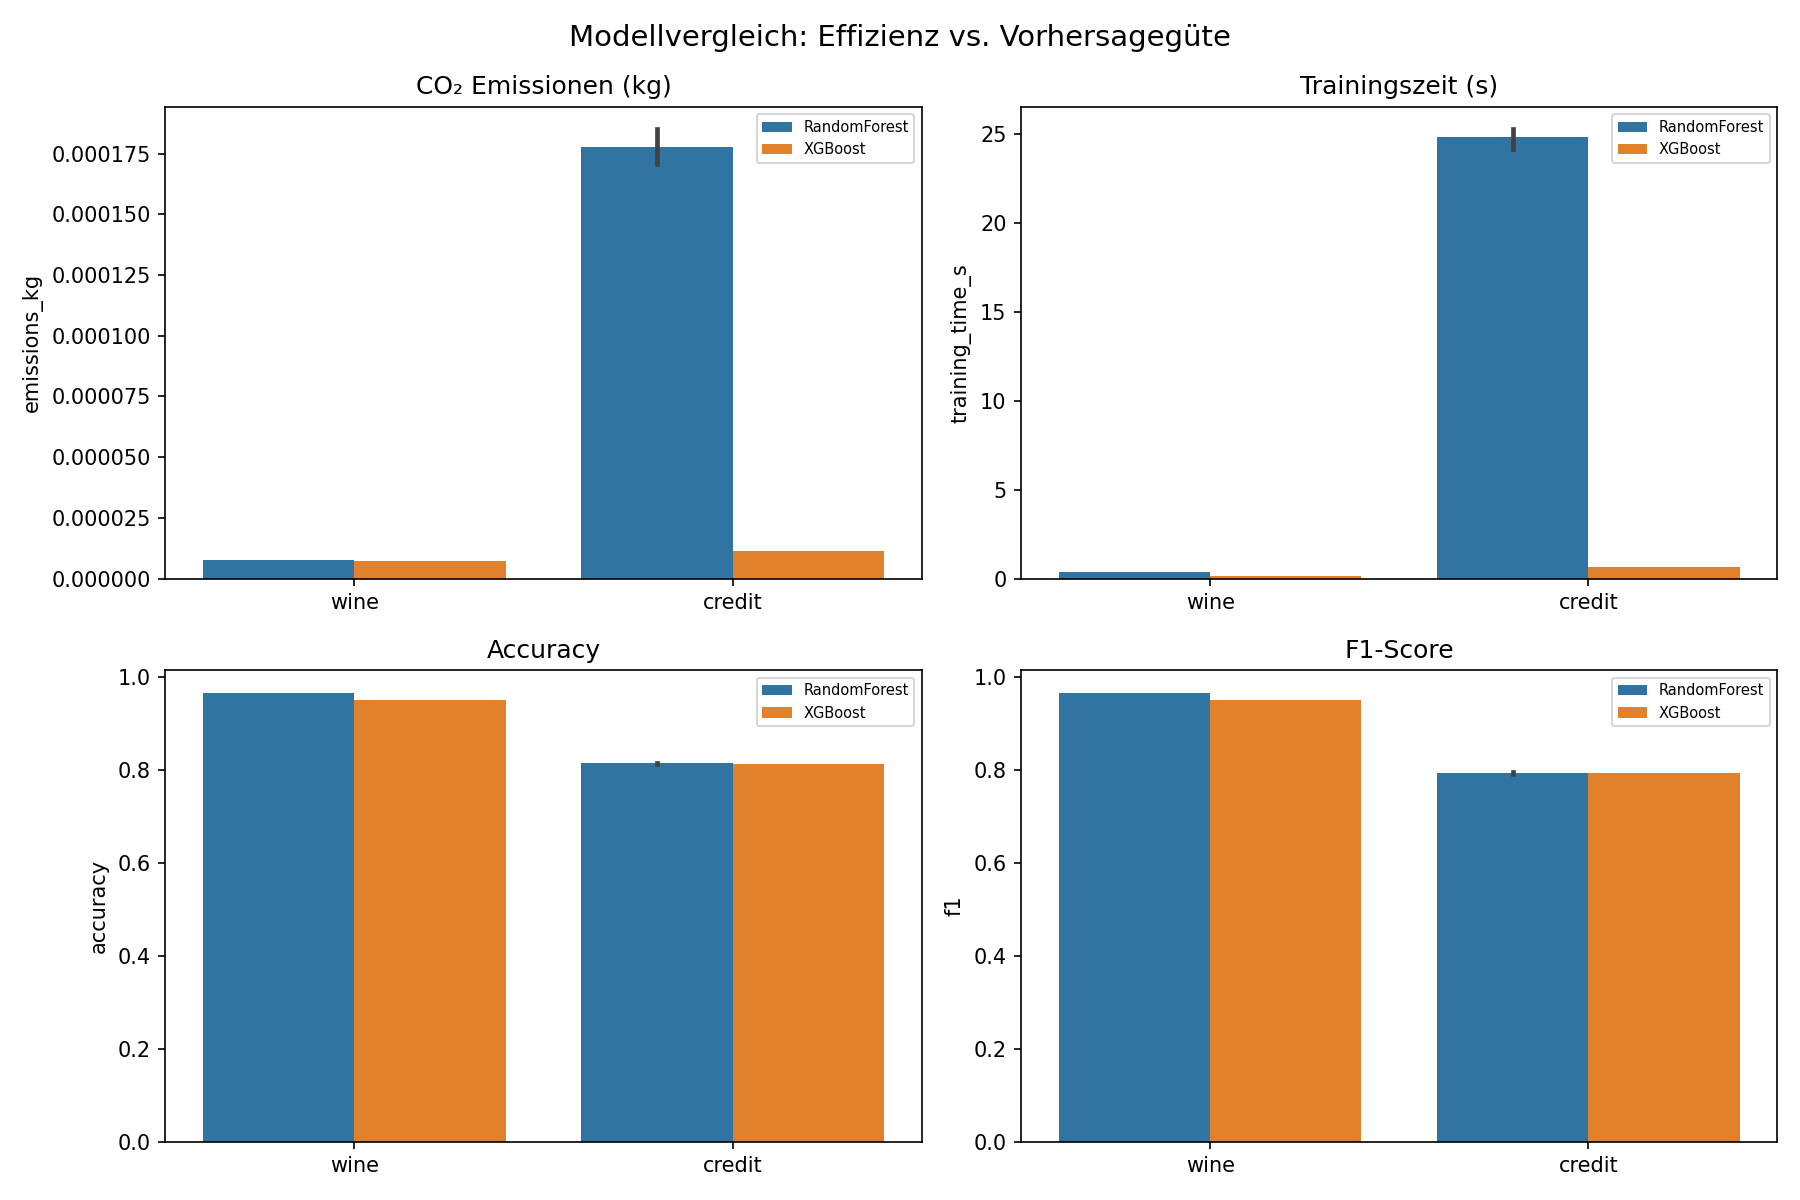
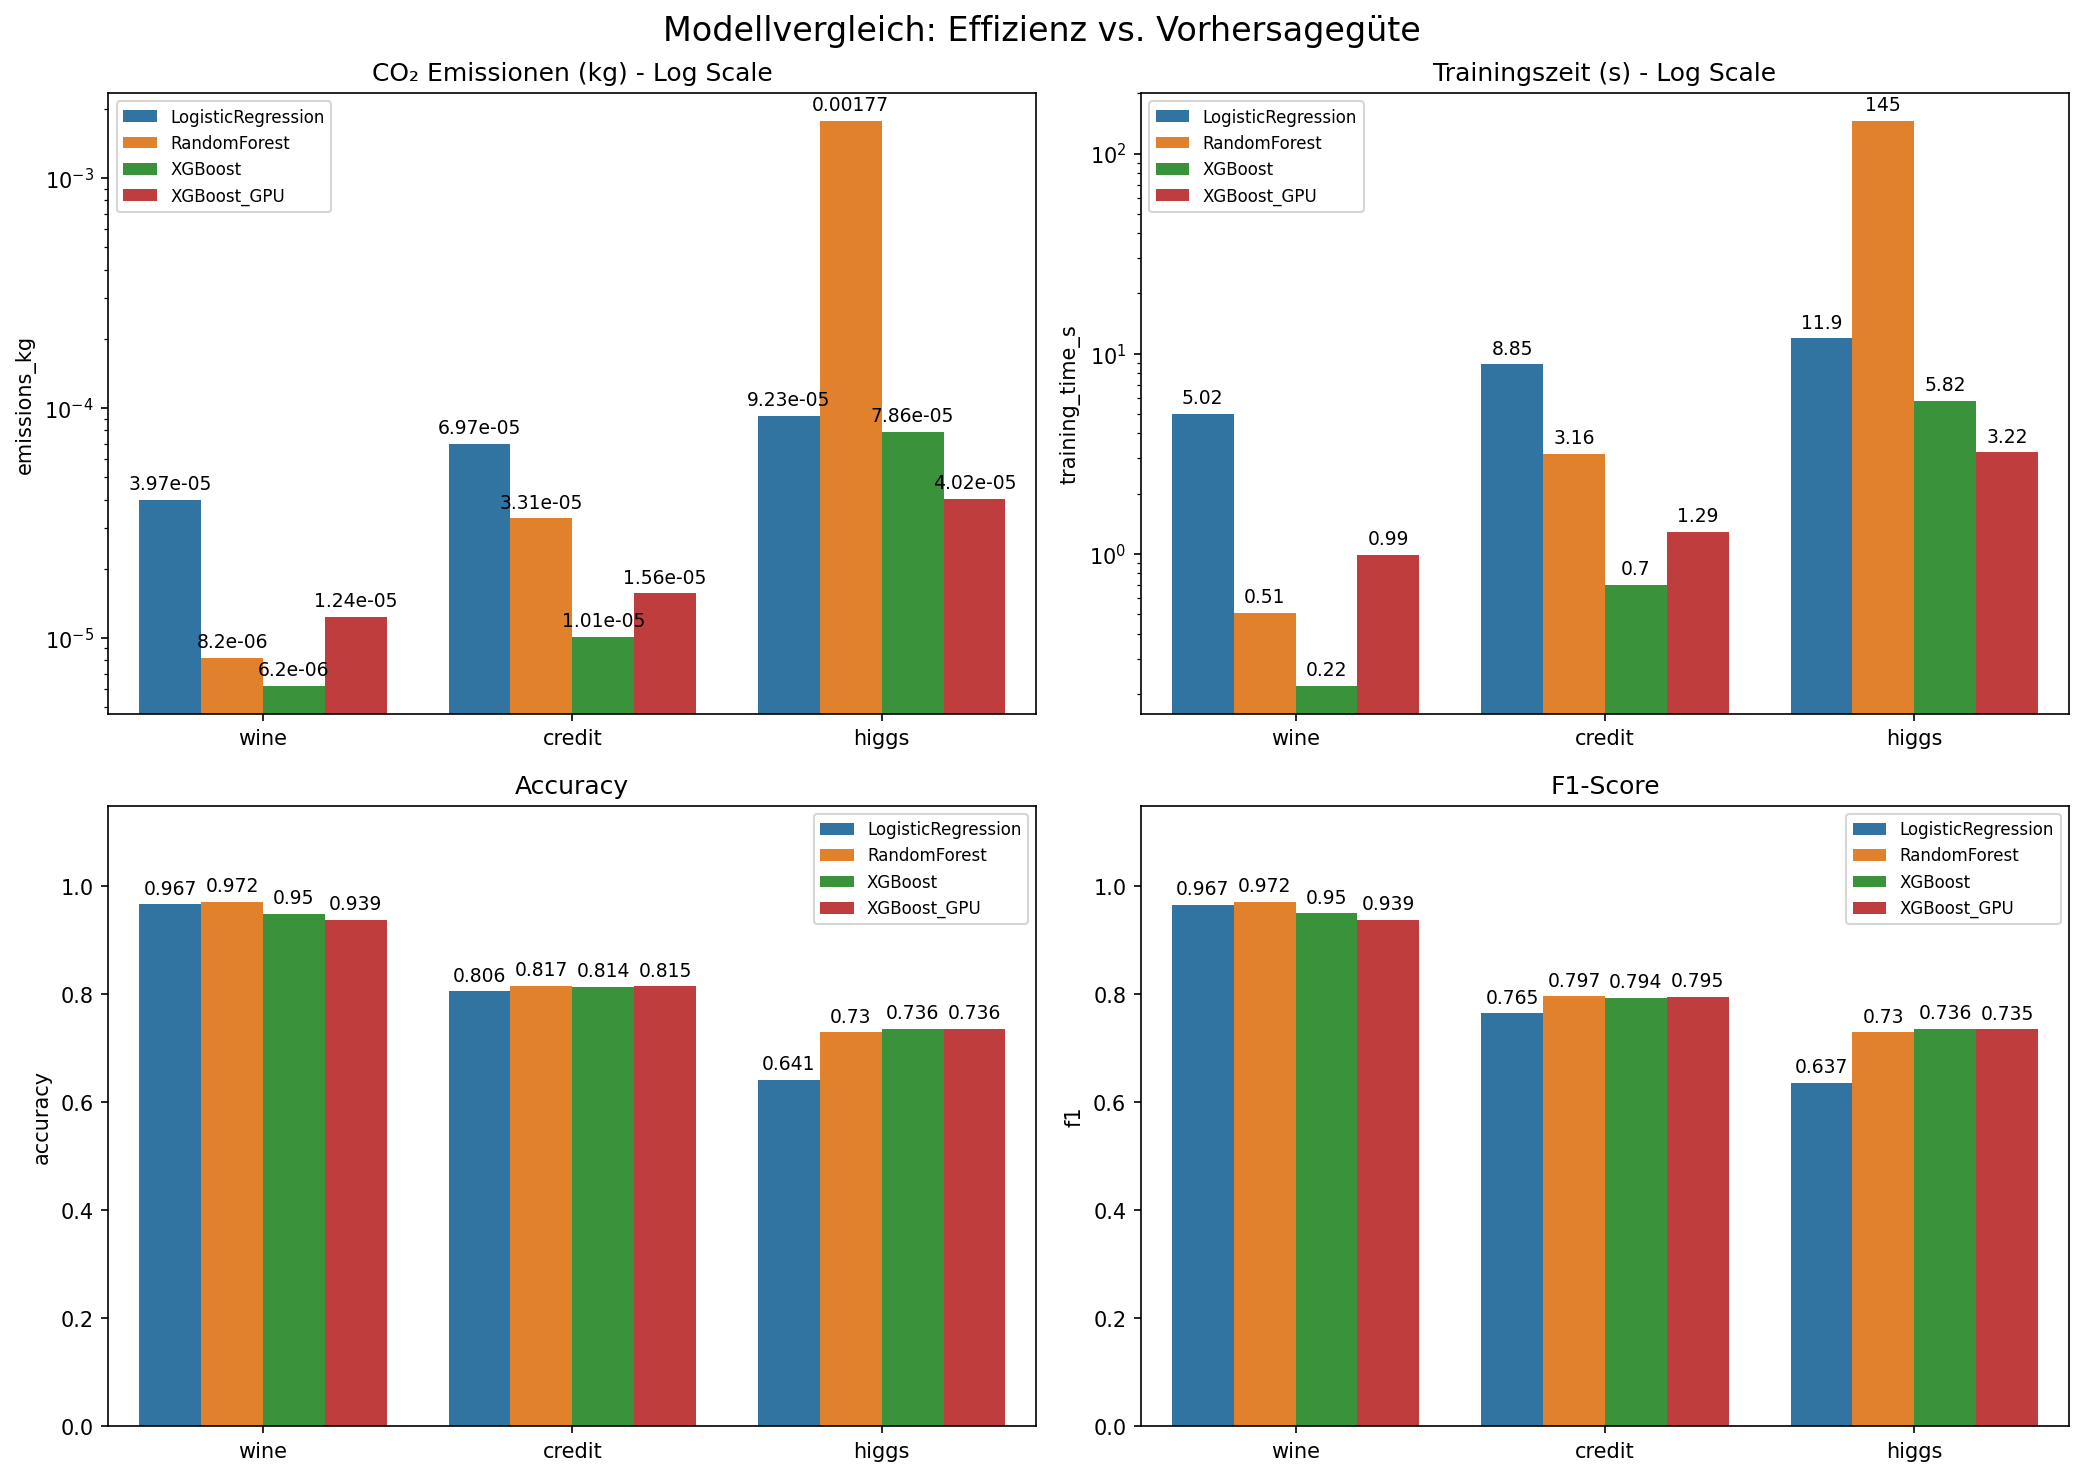
added higgs, added log_regression

diff --git a/models/run_models.py b/models/run_models.py
@@ -1,0 +1,44 @@
+import os
+import sys
+sys.path.append(os.path.dirname(os.path.abspath(__file__)))
+from utils import load_data, save_results, minimal_preprocess
+from sklearn.ensemble import RandomForestClassifier
+from xgboost import XGBClassifier
+from sklearn.model_selection import cross_validate
+from sklearn.metrics import f1_score, make_scorer
+from codecarbon import EmissionsTracker
+from config import config, RANDOM_STATE, CV_FOLDS
+import time
+
+DATASETS = ['wine', 'credit', 'higgs']
+
+xgb_config = {
+    "wine":   {"objective": "multi:softmax", "num_class": 3, "eval_metric": "mlogloss"},
+    "credit": {"objective": "binary:logistic", "eval_metric": "logloss"},
+    "higgs":  {"objective": "binary:logistic", "eval_metric": "logloss"},
+}
+
+scoring = {
+    'accuracy': 'accuracy',
+    'f1': make_scorer(f1_score, average='weighted')
+}
+
+for dataset in DATASETS:
+    X, y = load_data(dataset)
+    X, y = minimal_preprocess(X, y)
+    nrows = config[dataset].get("nrows")
+
+    for model_name, clf in [
+        ("RandomForest", RandomForestClassifier(random_state=RANDOM_STATE, n_jobs=-1)),
+        ("XGBoost",      XGBClassifier(**xgb_config[dataset], random_state=RANDOM_STATE)),
+        ("XGBoost_GPU",  XGBClassifier(**xgb_config[dataset], device='cuda', random_state=RANDOM_STATE)),
+    ]:
+        print(f"Running {model_name} on {dataset}...")
+        tracker = EmissionsTracker(output_dir="emissions", project_name=f"{model_name}_{dataset}")
+        tracker.start()
+        start = time.time()
+        cv_results = cross_validate(clf, X, y, cv=CV_FOLDS, scoring=scoring)
+        training_time = time.time() - start
+        emissions = tracker.stop()
+        save_results(model_name, dataset, cv_results['test_accuracy'].mean(), cv_results['test_f1'].mean(), emissions, training_time, nrows)
+        print(f"Done: acc={cv_results['test_accuracy'].mean():.4f}, time={training_time:.2f}s")

diff --git a/models/utils.py b/models/utils.py
@@ -1,19 +1,21 @@
 import pandas as pd
 import os
 import sys
+import csv
+from datetime import datetime
+from sklearn.impute import SimpleImputer
+from sklearn.preprocessing import LabelEncoder
+
 sys.path.append(os.path.dirname(os.path.dirname(os.path.abspath(__file__))))
 from config import config
 
-
-from sklearn.impute import SimpleImputer
-from sklearn.preprocessing import LabelEncoder
-import csv
-from datetime import datetime
 
 def load_data(dataset):
     cfg = config[dataset]
     if dataset == "higgs":
         df = pd.read_parquet(cfg["path"])
+        if cfg.get("nrows"):
+            df = df.head(cfg["nrows"])
     else:
         df = pd.read_csv(cfg["path"], names=cfg["names"], skiprows=cfg["skiprows"], delimiter=cfg["delimiter"])
     if cfg.get("drop_cols"):
@@ -24,19 +26,22 @@ def load_data(dataset):
         y = y + cfg["label_offset"]
     return X, y
 
-def save_results(model, dataset, accuracy, f1, emissions, training_time):
-    os.makedirs("results", exist_ok=True)
-    file_path = "results/results.csv"
+
+def save_results(model, dataset, accuracy, f1, emissions, training_time, nrows):
+    base_dir = os.path.dirname(os.path.dirname(os.path.abspath(__file__)))
+    results_dir = os.path.join(base_dir, "results")
+    os.makedirs(results_dir, exist_ok=True)
+    file_path = os.path.join(results_dir, "results.csv")
     file_exists = os.path.isfile(file_path)
-    
     with open(file_path, "a", newline="") as f:
-        writer = csv.DictWriter(f, fieldnames=["timestamp", "model", "dataset", "accuracy", "f1", "emissions_kg", "training_time_s"])
+        writer = csv.DictWriter(f, fieldnames=["timestamp", "model", "dataset", "nrows", "accuracy", "f1", "emissions_kg", "training_time_s"])
         if not file_exists:
             writer.writeheader()
         writer.writerow({
             "timestamp": datetime.now().strftime("%Y-%m-%d %H:%M:%S"),
             "model": model,
             "dataset": dataset,
+            "nrows": nrows if nrows else "all",
             "accuracy": round(accuracy, 4),
             "f1": round(f1, 4),
             "emissions_kg": emissions,
@@ -45,15 +50,13 @@ def save_results(model, dataset, accuracy, f1, emissions, training_time):
 
 
 def minimal_preprocess(X, y):
-    # 1. Missing values (median für numerisch, most_frequent für kategorisch)
+    X = X.copy()
     num_cols = X.select_dtypes(include='number').columns
     cat_cols = X.select_dtypes(exclude='number').columns
-    
     if len(num_cols) > 0:
         X[num_cols] = SimpleImputer(strategy='median').fit_transform(X[num_cols])
     if len(cat_cols) > 0:
         X[cat_cols] = SimpleImputer(strategy='most_frequent').fit_transform(X[cat_cols])
         for col in cat_cols:
             X[col] = LabelEncoder().fit_transform(X[col])
-    
     return X, y

diff --git a/config.py b/config.py
@@ -7,7 +7,8 @@ config = {
                   "Color Intensity", "Hue", "OD280/OD315 of diluted wines", "Proline"],
         "skiprows": None,
         "delimiter": ",",
-        "label_offset": -1
+        "label_offset": -1,
+        "nrows": None
     },
     "credit": {
         "path": "csv_files/default_of_credit_card_clients/default_of_credit_card_clients.csv",
@@ -15,14 +16,18 @@ config = {
         "names": None,
         "skiprows": 1,
         "delimiter": ";",
-        "drop_cols": ["ID"]
+        "drop_cols": ["ID"],
+        "nrows": None
     },
     "higgs": {
         "path": "csv_files/higgs/higgs.parquet",
         "target": "label",
         "names": None,
         "skiprows": None,
-        "delimiter": ","
-        
+        "delimiter": ",",
+        "nrows": 500000
     }
 }
+
+RANDOM_STATE = 42
+CV_FOLDS = 5

diff --git a/convert_to_parquet.py b/convert_to_parquet.py
@@ -1,0 +1,5 @@
+import pandas as pd
+
+df = pd.read_csv("./csv_files/higgs/HIGGS.csv.gz", compression='gzip', header=None)
+df.columns = ['label'] + [f'feature_{i}' for i in range(1, 29)]
+df.to_parquet("csv_files/higgs/higgs.parquet")